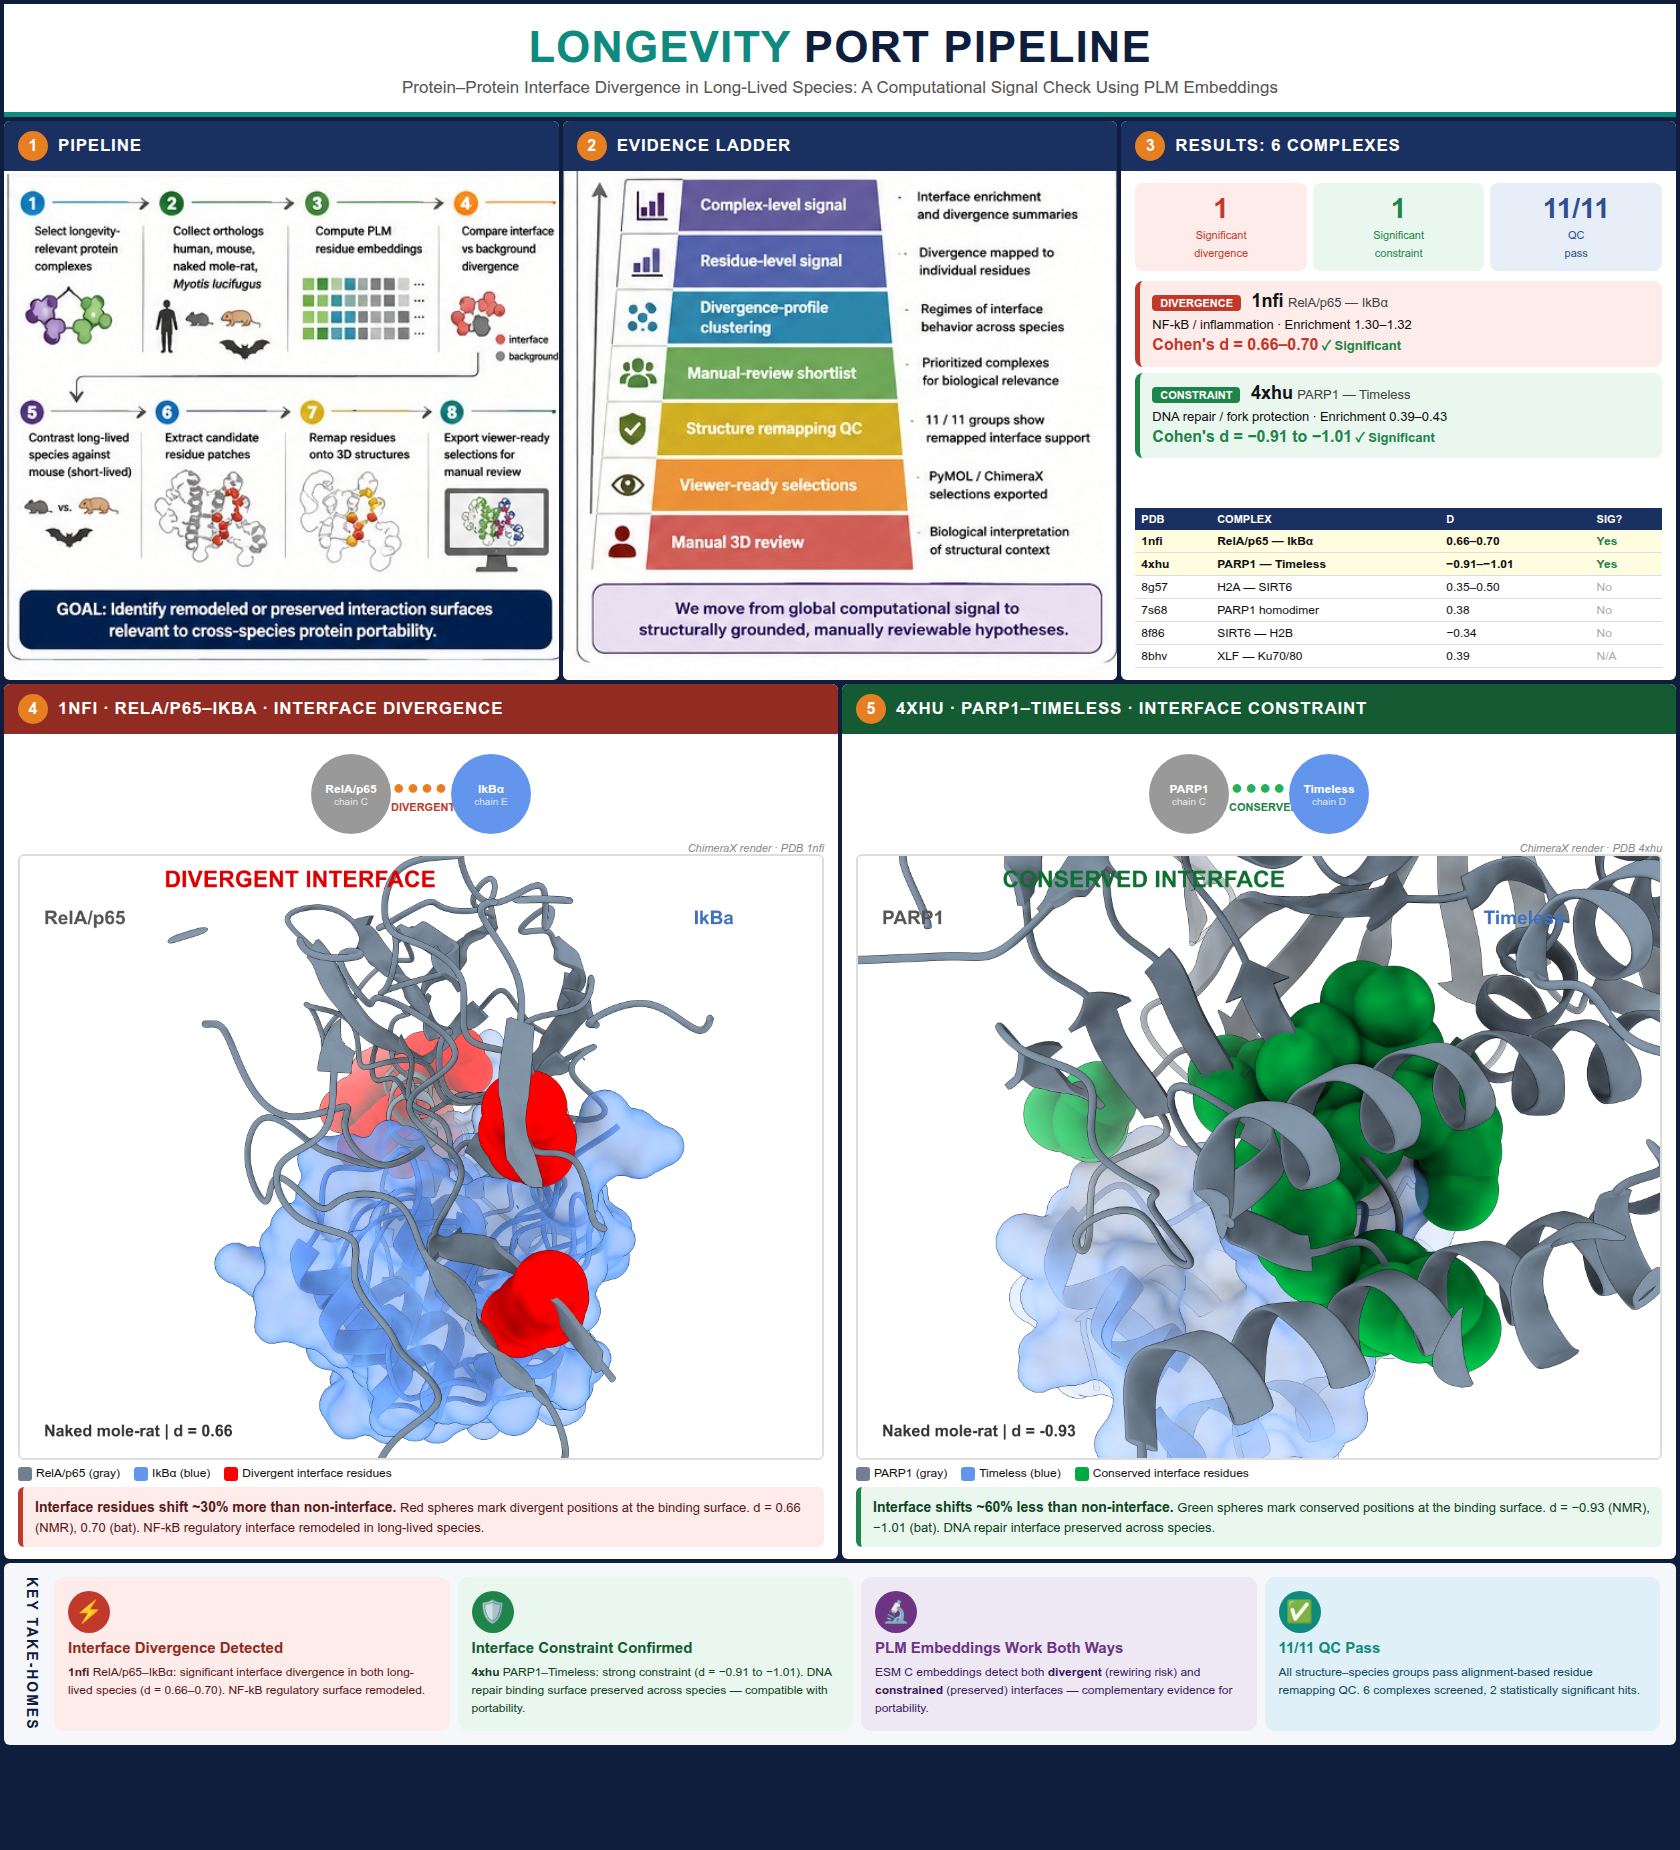
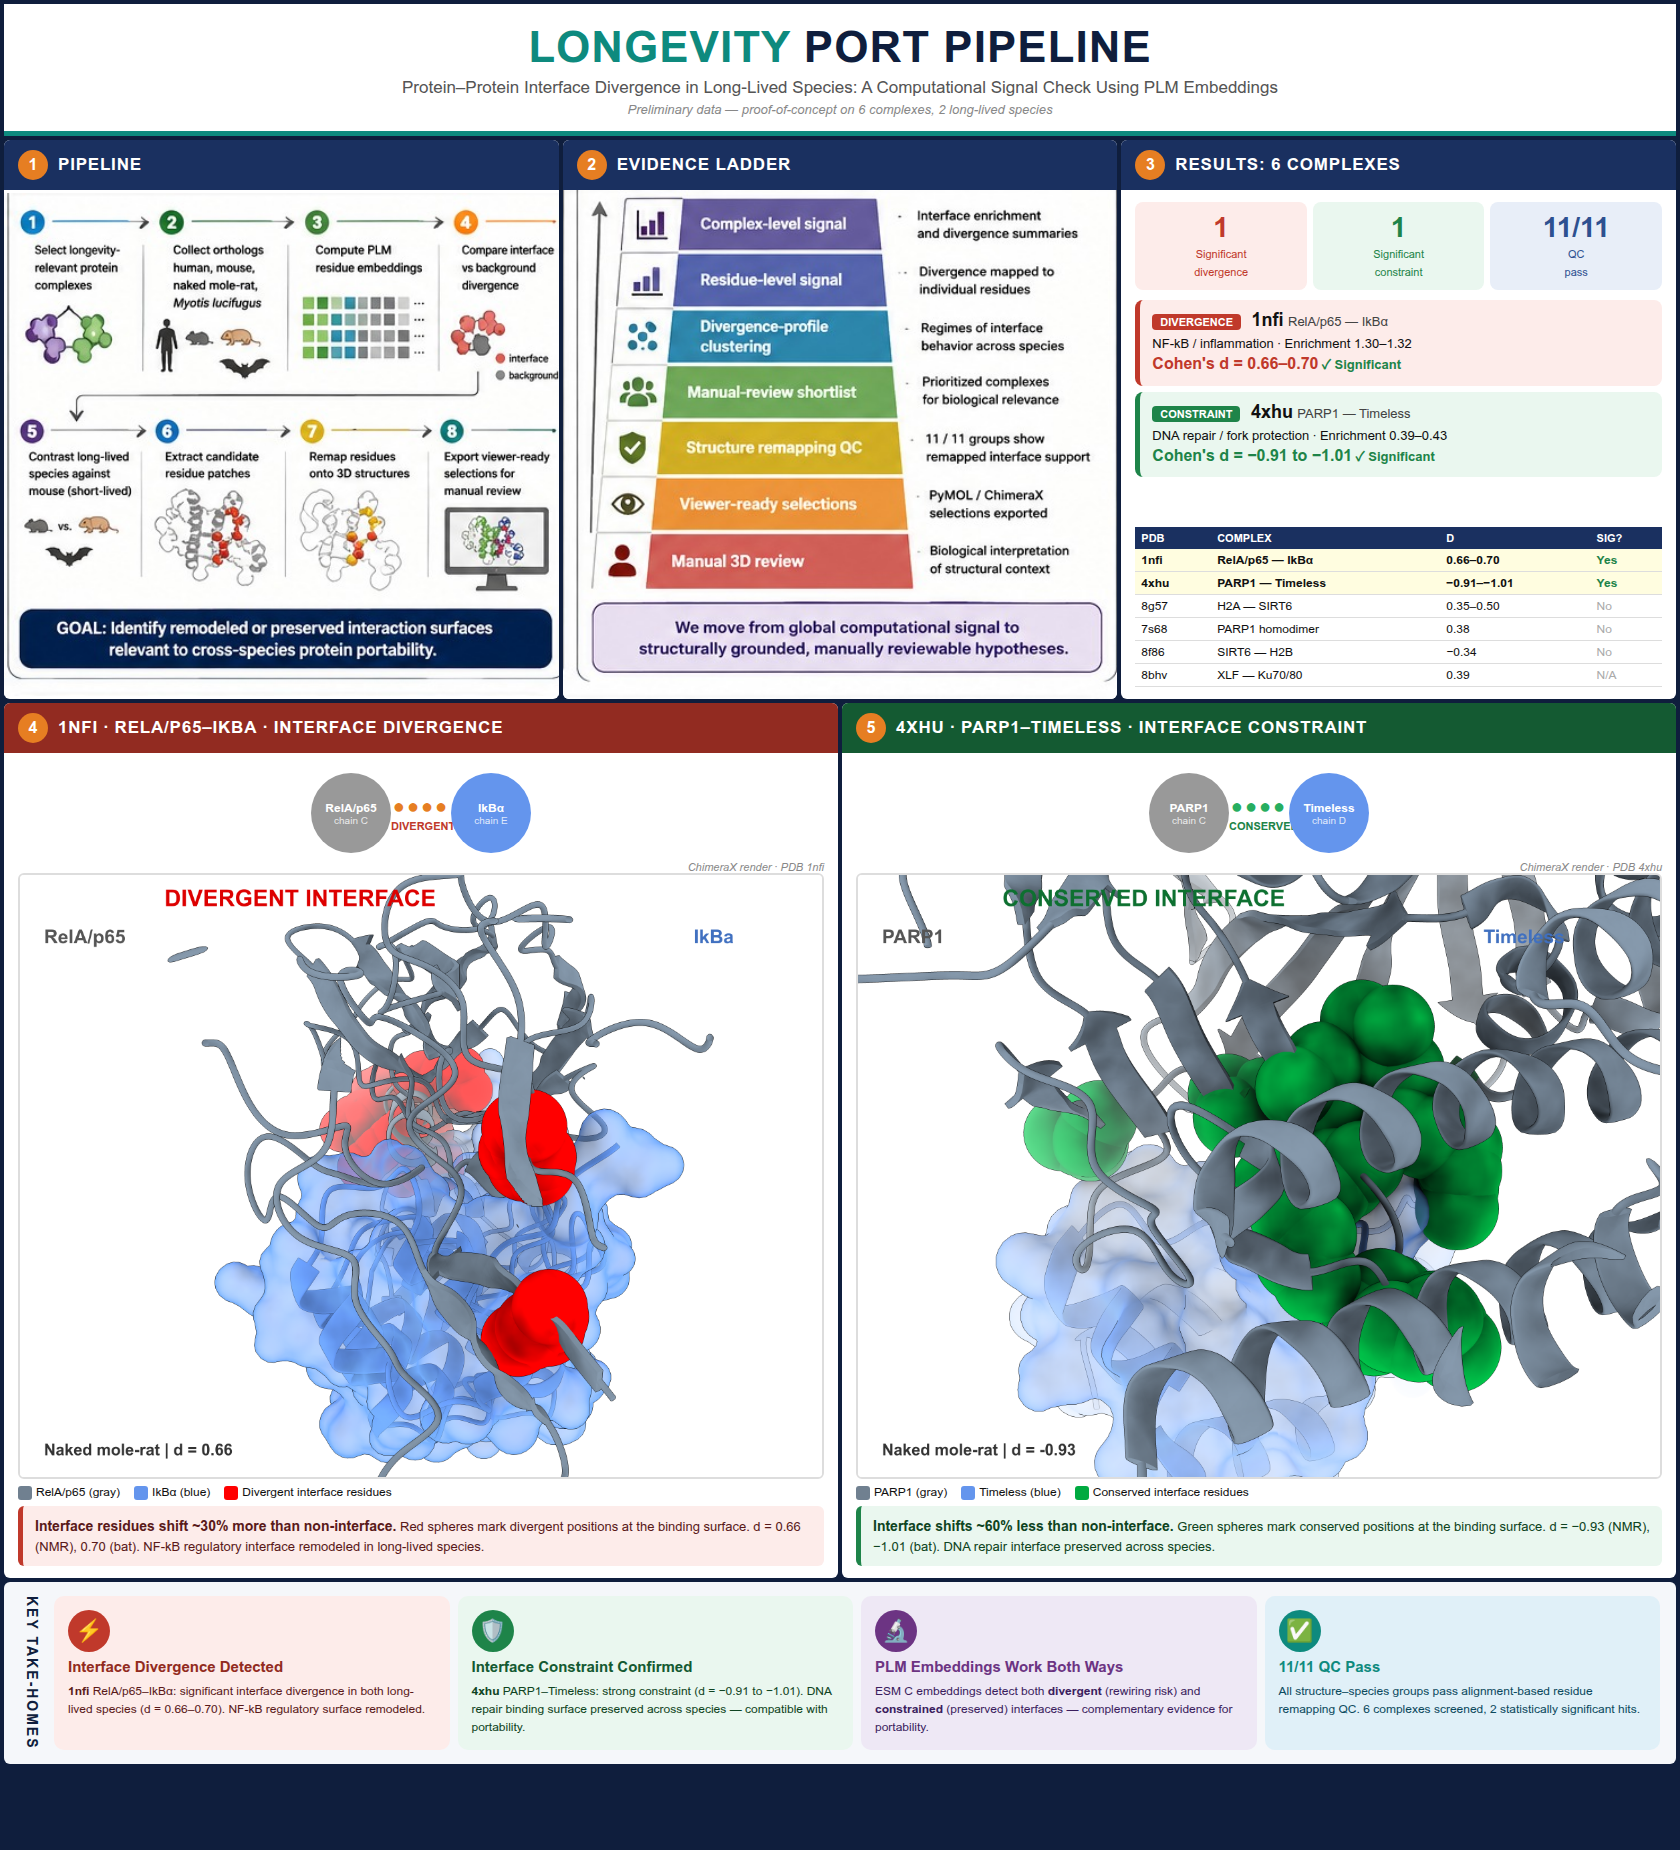
udpated proposal

diff --git a/docs/poster/poster.html b/docs/poster/poster.html
@@ -189,6 +189,7 @@ table.t tr.hi td { background: #fffde0; font-weight: 600; }
 <div class="header">
   <h1><span class="accent">Longevity</span> Port Pipeline</h1>
   <div class="sub">Protein–Protein Interface Divergence in Long-Lived Species: A Computational Signal Check Using PLM Embeddings</div>
+  <div class="sub" style="margin-top:4px; font-size:13px; color:#888; font-style:italic;">Preliminary data — proof-of-concept on 6 complexes, 2 long-lived species</div>
 </div>
 
 <!-- ═══ ROW 1: Pipeline | Ladder | Results ═══ -->

diff --git a/docs/poster/render_poster.py b/docs/poster/render_poster.py
@@ -34,7 +34,7 @@ def render_poster(
     html: Annotated[Path, typer.Option(help="Input HTML file")] = POSTER_HTML,
     output: Annotated[Path, typer.Option("-o", "--output", help="Output PNG path")] = DEFAULT_OUTPUT,
     width: Annotated[int, typer.Option(help="Viewport width (px)")] = 1680,
-    height: Annotated[int, typer.Option(help="Viewport height (px)")] = 1680,
+    height: Annotated[int, typer.Option(help="Viewport height (px)")] = 1850,
 ) -> None:
     """Render the poster HTML to a PNG image using Chrome headless."""
     chrome = _find_chrome()

diff --git a/src/longevity_port_pipelines/cli.py b/src/longevity_port_pipelines/cli.py
@@ -303,7 +303,7 @@ def render_poster(
         Path, typer.Option("-o", "--output", help="Output PNG path")
     ] = Path("docs/poster/poster.png"),
     width: Annotated[int, typer.Option(help="Viewport width (px)")] = 1680,
-    height: Annotated[int, typer.Option(help="Viewport height (px)")] = 1680,
+    height: Annotated[int, typer.Option(help="Viewport height (px)")] = 1850,
     verbose: Verbose = False,
 ) -> None:
     """Render the poster HTML to a PNG image using Chrome headless."""

diff --git a/docs/biswas_fast_grant_proposal.md b/docs/biswas_fast_grant_proposal.md
@@ -1,0 +1,65 @@
+# Biswas Fast Grant Application — $50K tier
+
+> Deadline: June 15, 2026, 11:59 PM PT (Cycle 1)
+> Form: https://airtable.com/appvoZqVg3b2ZuHln/pagsqD89ESm8aWcvN/form
+> Character limits confirmed from the Airtable form PDF.
+> Copy each section into the corresponding Airtable form field.
+
+---
+
+## Project title
+
+LongevityPort: AI Discovery of Portable Pro-Longevity Proteins from Long-Lived Species
+
+---
+
+## One-sentence summary (<=200 chars) — 183 chars
+
+An AI pipeline that mines long-lived species for health-relevant protein variants in pathways such as DNA repair, inflammation and cancer, predicting which can be ported into human biology.
+
+---
+
+## The Question / Idea (<=275 chars, 3-5 bullets, ~50 words) — 275 chars
+
+Long-lived species evolved protein variants in health pathways that may outperform human counterparts, but direct transfer can break protein interfaces.
+We screened 43 complexes and found divergence in interactions of SIRT6, PARP1, NF-kB and others. Can they be adapted for humans?
+
+---
+
+## What You'll Do (<=275 chars, 3-5 bullets, ~50 words) — 241 chars
+
+I will use protein language models such as ESMC, ESM3 and interaction networks for interface screening. Validate top portability candidates with MD and structural AI. Modify where interfaces do not fit. Deliver shortlist with portability annotations.
+
+---
+
+## Why Now / Why This Team (<=200 chars, 2-3 bullets, ~30 words) — 184 chars
+
+Protein foundation models recently became API-accessible. We bring longevity expertise and our preliminary pipeline (https://github.com/longevity-genie/longevity-port-pipelines) already shows results.
+
+---
+
+## Budget (<=275 chars, ~50 words) — 208 chars
+
+Bioinformatics personnel (~1 FTE across team): $34.5K
+Compute (AI co-folding, MD validation): $9K
+Travel (conference dissemination, e.g. ARDD): $1.5K
+Indirect (10%): $5K
+Total: $50K, 12 months, single payment
+
+---
+
+## Outputs (<=125 chars, 1-2 bullets, ~20 words) — 124 chars
+
+Open-source code, cross-species interface divergence dataset, ranked candidate shortlist, preprint and submitted manuscript.
+
+---
+
+## Brief Bio (<=400 chars, 3-4 bullets, ~80 words) — 370 chars
+
+Team: Anton Kulaga (PI), bioinformatician, Inst. of Biochemistry of the Romanian Academy / Rostock Univ. Medical Center; Robi Tacutu (advisor, h-index 24), head of Romanian Bioinformatics Cluster. Key papers: ML of mammalian longevity (IJMS 2021), gray-whale DNA repair (Aging Cell 2020).
+
+---
+
+## Website / Scholar (separate form field, if present)
+
+https://scholar.google.com/citations?user=epIpeOwAAAAJ